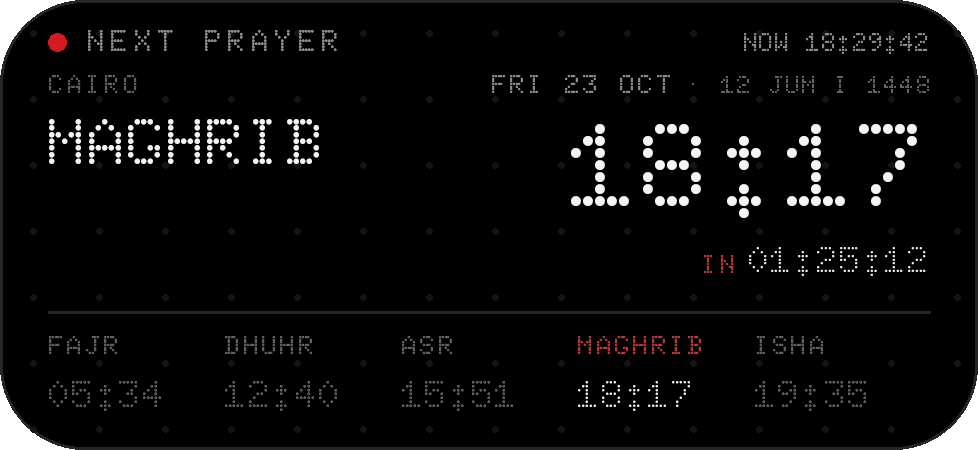
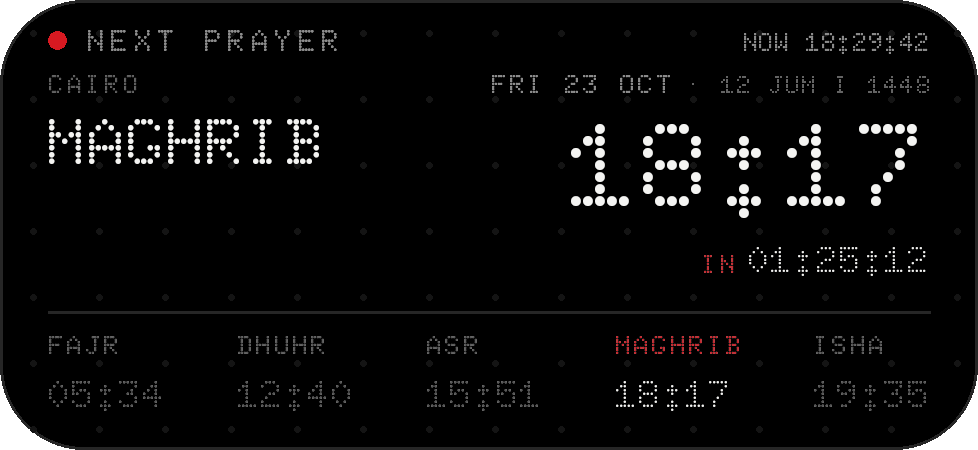
Align status dots and fill the widget prayer strip

diff --git a/app/src/main/java/com/dotpray/app/widget/WidgetRenderer.java b/app/src/main/java/com/dotpray/app/widget/WidgetRenderer.java
@@ -111,7 +111,10 @@ public final class WidgetRenderer {
         float clockBase = ink.dp(69);
         float countBase = ink.dp(91);
 
-        c.drawCircle(pad + ink.dp(3), header + ink.dp(3), ink.dp(3), ink.fill(ACCENT));
+        // Centre the status dot on the Doto label's ink, not its baseline:
+        // the glyph box floats about 3.5dp above the baseline at 10sp.
+        c.drawCircle(pad + ink.dp(3), header - ink.dp(3.5f), ink.dp(3),
+                ink.fill(ACCENT));
         ink.text("NEXT PRAYER", pad + ink.dp(13), header,
                 ink.label(), ink.dim, 0.18f, Paint.Align.LEFT);
 
@@ -155,21 +158,43 @@ public final class WidgetRenderer {
         if (full) {
             float divider = ink.dp(104);
             ink.rule(pad, divider, designW - pad);
+
+            // Justify the five columns across the full card width. Equal
+            // columns left an obvious empty tail after Isha; measuring each
+            // prayer block and spreading the spare width into the gaps keeps
+            // the strip flush with both edges of the divider.
             Prayer[] prayers = Prayer.values();
-            float col = (designW - pad * 2) / 5f;
+            Paint namePaint = ink.label(9);
+            Paint timePaint = ink.display(13);
+            String[] names = new String[prayers.length];
+            String[] times = new String[prayers.length];
+            float[] blocks = new float[prayers.length];
+            float blockTotal = 0f;
             for (int i = 0; i < prayers.length; i++) {
-                float x = pad + col * i;
                 boolean active = prayers[i] == snapshot.next.prayer;
                 PrayerCalculator.Entry entry = snapshot.today.get(i);
                 // After Isha the next prayer is tomorrow's Fajr. Keep the strip
                 // useful by lighting its Fajr slot with that upcoming time.
                 if (active && snapshot.nextIsTomorrow) entry = snapshot.next;
-                ink.text(prayers[i].label.toUpperCase(Locale.US), x, ink.dp(118),
-                        ink.label(9), active ? ACCENT : ink.faint, 0.08f,
-                        Paint.Align.LEFT);
-                ink.text(use24 ? Format.time24(entry.local) : Format.time12(entry.local),
-                        x, ink.dp(136), ink.display(13),
+                names[i] = prayers[i].label.toUpperCase(Locale.US);
+                times[i] = use24 ? Format.time24(entry.local)
+                        : Format.time12(entry.local);
+                blocks[i] = Math.max(
+                        ink.trackedWidth(names[i], namePaint, 0.08f),
+                        ink.measure(times[i], timePaint));
+                blockTotal += blocks[i];
+            }
+            float gap = (designW - pad * 2f - blockTotal)
+                    / (prayers.length - 1);
+            gap = Math.max(ink.dp(6), gap);
+            float x = pad;
+            for (int i = 0; i < prayers.length; i++) {
+                boolean active = prayers[i] == snapshot.next.prayer;
+                ink.text(names[i], x, ink.dp(118), namePaint,
+                        active ? ACCENT : ink.faint, 0.08f, Paint.Align.LEFT);
+                ink.text(times[i], x, ink.dp(136), timePaint,
                         active ? ink.fg : ink.inactive, 0f, Paint.Align.LEFT);
+                x += blocks[i] + gap;
             }
         }
 
@@ -198,7 +223,7 @@ public final class WidgetRenderer {
         float pad = ink.dp(12);
         float header = ink.dp(16);
 
-        c.drawCircle(pad + ink.dp(2.5f), header + ink.dp(2.5f), ink.dp(2.5f),
+        c.drawCircle(pad + ink.dp(2.5f), header - ink.dp(3.5f), ink.dp(2.5f),
                 ink.fill(ACCENT));
         ink.text("NEXT", pad + ink.dp(9), header, ink.label(), ink.dim, 0.18f,
                 Paint.Align.LEFT);

diff --git a/tools/render_preview.py b/tools/render_preview.py
@@ -277,7 +277,7 @@ def render_app(path=None):
     spaced(dr, (W // 2, y), "Calculated on device · No ads · No tracking",
            f_label_faint, FG_FAINT, 0.14, anchor="ma")
     y += d(20)
-    spaced(dr, (W // 2, y), "DOTPRAY 1.8 · DOTO (OFL)",
+    spaced(dr, (W // 2, y), "DOTPRAY 1.9 · DOTO (OFL)",
            f_label_faint, FOOTER, 0.14, anchor="ma")
 
     path = path or os.path.join(OUT_DIR, "app-screen.png")
@@ -363,7 +363,7 @@ def render_widget_wide(width_dp=326, height_dp=150, path=None, drawable=None):
     f_125 = doto("regular", 12.5)
     f_13 = doto("regular", 13)
 
-    cd.ellipse([pad, header - d(6), pad + d(6), header], fill=ACCENT)
+    cd.ellipse([pad, header - d(6.5), pad + d(6), header - d(0.5)], fill=ACCENT)
     _spaced_px(cd, (pad + d(13), header), "NEXT PRAYER", f_10b, d(10), FG_DIM, 0.18)
 
     # current time is context, aligned with the label but smaller and quieter
@@ -397,16 +397,25 @@ def render_widget_wide(width_dp=326, height_dp=150, path=None, drawable=None):
     cd.text((count_x + label_w + gap, count_base), count_text, font=f_125, fill=FG,
             anchor="ls")
 
-    # schedule, active prayer gets a small red label and a bright time
+    # schedule, active prayer gets a small red label and a bright time.
+    # Measure each block and spread the spare width into the gaps so the
+    # strip is flush with both ends of the divider instead of leaving an
+    # empty tail after Isha.
     cd.line([pad, divider, DW - pad, divider], fill=CARD_LINE, width=max(1, d(1)))
     names = [("FAJR", "05:34"), ("DHUHR", "12:40"), ("ASR", "15:51"),
              ("MAGHRIB", "18:17"), ("ISHA", "19:35")]
-    col = (DW - pad * 2) / 5
+    blocks = []
+    for n, t in names:
+        nw = sum(cd.textlength(ch, font=f_9b) for ch in n) + d(9) * 0.08 * (len(n) - 1)
+        tw = sum(cd.textlength(ch, font=f_13) for ch in t)
+        blocks.append(max(nw, tw))
+    gap = max(d(6), ((DW - pad * 2) - sum(blocks)) / (len(names) - 1))
+    x = pad
     for i, (n, t) in enumerate(names):
-        x = pad + col * i
         active = i == 3
         _spaced_px(cd, (x, d(118)), n, f_9b, d(9), ACCENT if active else FG_FAINT, 0.08)
         cd.text((x, d(136)), t, font=f_13, fill=FG if active else INACTIVE, anchor="ls")
+        x += blocks[i] + gap
 
     _compose(img, layer, DW, DH)
 
@@ -441,7 +450,7 @@ def render_widget_small(width_dp=150, height_dp=150, path=None, drawable=None):
     f_34 = doto("bold", 34)
     f_105 = doto("regular", 10.5)
 
-    cd.ellipse([pad, header - d(5), pad + d(5), header], fill=ACCENT)
+    cd.ellipse([pad, header - d(6), pad + d(5), header - d(1)], fill=ACCENT)
     _spaced_px(cd, (pad + d(9), header), "NEXT", f_10b, d(10), FG_DIM, 0.18)
     _spaced_px(cd, (DW - pad, header), "NOW 18:29:42", f_85b, d(8.5), FG_DIM, 0.0,
                "right")

diff --git a/app/src/main/java/com/dotpray/app/ui/GlyphArcView.java b/app/src/main/java/com/dotpray/app/ui/GlyphArcView.java
@@ -8,11 +8,10 @@ import android.view.View;
 
 import com.dotpray.app.R;
 
-/** Decorative concentric glyph arcs with a single red marker. */
+/** Decorative concentric glyph arcs behind the next-prayer header. */
 public class GlyphArcView extends View {
 
     private final Paint arc = new Paint(Paint.ANTI_ALIAS_FLAG);
-    private final Paint dot = new Paint(Paint.ANTI_ALIAS_FLAG);
     private float density;
 
     public GlyphArcView(Context context) {
@@ -31,7 +30,6 @@ public class GlyphArcView extends View {
         arc.setStrokeWidth(1f * density);
         arc.setStrokeCap(Paint.Cap.ROUND);
         arc.setColor(getContext().getColor(R.color.arc));
-        dot.setColor(getContext().getColor(R.color.accent));
     }
 
     @Override
@@ -45,14 +43,6 @@ public class GlyphArcView extends View {
         drawArc(canvas, cx, cy, getWidth() * 0.34f, 215f, 120f);
         arc.setAlpha(11);
         drawArc(canvas, cx, cy, getWidth() * 0.22f, 230f, 90f);
-
-        // red marker riding the middle arc
-        double angle = Math.toRadians(238);
-        float r = getWidth() * 0.34f;
-        float mx = cx + (float) (r * Math.cos(angle));
-        float my = cy + (float) (r * Math.sin(angle));
-        dot.setAlpha(210);
-        canvas.drawCircle(mx, my, 2.4f * density, dot);
     }
 
     private void drawArc(Canvas canvas, float cx, float cy, float radius, float start, float sweep) {

diff --git a/README.md b/README.md
@@ -20,7 +20,7 @@ No ads, no tracking, no AndroidX. The app has no `INTERNET` permission.
 (`tools/render_preview.py`), not screenshots. The app and both widgets share
 the in-app System / Light / Dark choice.*
 
-*Version 1.8 — rebalanced hierarchy, compact headers and clearer next-prayer focus.*
+*Version 1.9 — aligned status dots and a full-width widget prayer strip.*
 
 ---
 
@@ -59,7 +59,7 @@ build it locally with `./build.sh`:
 
 ```bash
 ./build.sh
-adb install -r dist/dotpray-1.8.apk
+adb install -r dist/dotpray-1.9.apk
 ```
 
 Or copy the built APK to the phone and open it (you will need to allow
@@ -114,7 +114,7 @@ Requirements:
 | Build tools | `37.0.0` |
 | minSdk / targetSdk | 26 / 35 |
 
-Output: `dist/dotpray-1.8.apk`, signed with a debug key that is generated on
+Output: `dist/dotpray-1.9.apk`, signed with a debug key that is generated on
 first run at `keystore/dotpray.keystore` (outside `build/`, so rebuilds keep the
 same certificate and new versions install over old ones).
 
@@ -204,7 +204,7 @@ dotpray/
 │   ├── gen_live_digits.py       traces Doto digits into widget vector drawables
 │   ├── make_icons.py            regenerates launcher icons from the SVG
 │   └── render_preview.py        renders preview/*.png from the real layouts
-└── dist/dotpray-1.8.apk
+└── dist/dotpray-1.9.apk
 ```
 
 ### Design details
